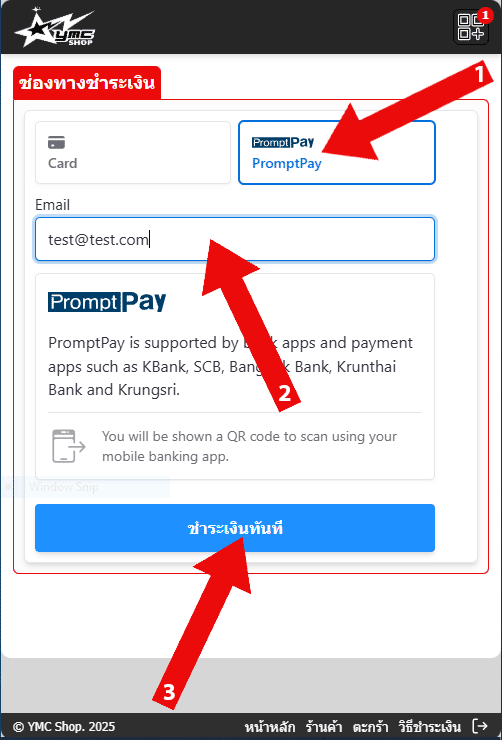
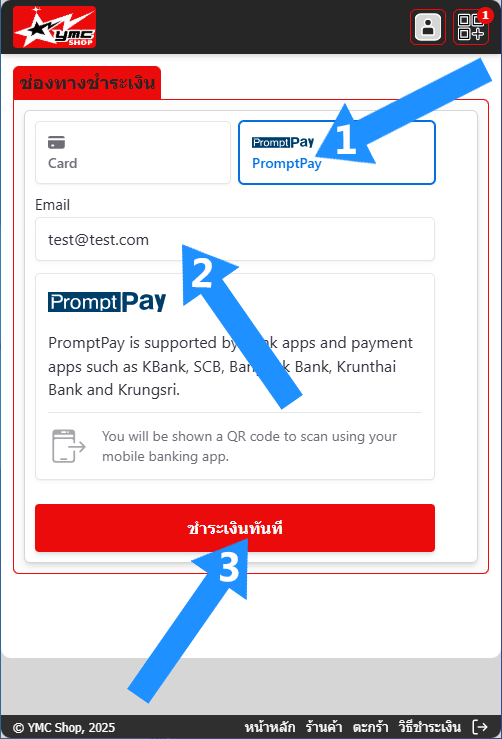
ymcshop-edit-CSS

diff --git a/src/stripe.css b/src/stripe.css
@@ -6,6 +6,8 @@
   border-radius: 7px;
   padding: 40px;
 }
+
+.Input,
 .stripe-input {
   border-radius: 6px;
   margin-bottom: 6px;
@@ -16,18 +18,22 @@
   background: var(--btbgact);
   box-sizing: border-box;
   border: solid 1px;
-  border-color: var(--bluelite);
+  border-color: var(--red);
   font-size: var(--fontsize14);
   font-weight: 600;
-  color: var(--bluedeep);
+  color: var(--redfull);
   background-color: var(--white);
+  padding-right: 82.2px;
 }
 
+.Input:hover,
 .stripe-input:hover {
-  border-color: var(--bluedeep);
-  background-color: var(--bluelite);
+  border-color: var(--redfull);
+  background-color: var(--red);
   color: var(--white);
 }
+
+.Input:focus,
 .stripe-input:focus {
   border: solid 1px;
   border-radius: 4px;
@@ -36,24 +42,27 @@
   border-color: transparent;
   opacity: 1;
   outline: none;
-  box-shadow: 0 0 0 2px var(--bluedeep);
-  color: var(--bluelite);
+  box-shadow: 0 0 0 2px var(--redfull);
+  color: var(--red);
   background-color: var(--btbgact);
 }
 
 .result-message {
   line-height: 22px;
   font-size: 16px;
-  color: var(--bluelite);
+  color: var(--red);
 }
+
 .result-message a {
-  color: var(--bluelite);
+  color: var(--red);
   font-weight: 600;
   text-decoration: none;
 }
+
 .hidden {
   display: none;
 }
+
 #card-error {
   color: rgb(105, 115, 134);
   font-size: 16px;
@@ -61,21 +70,24 @@
   margin-top: 12px;
   text-align: center;
 }
+
 #card-element {
   border-radius: 4px 4px 0 0;
   padding: 12px;
-  border: 1px solid var(--bluedeep);
+  border: 1px solid var(--redfull);
   max-height: 44px;
   width: 100%;
-  background: var(--bluelite);
+  background: var(--red);
   box-sizing: border-box;
 }
+
 #payment-request-button {
   margin-bottom: 32px;
 }
+
 /* Buttons and links */
 .stripe-button {
-  background: var(--bluelite);
+  background: var(--red);
   /* font-family: Arial, sans-serif; */
   color: var(--white);
   /* border-radius: 0 0 4px 4px; */
@@ -93,20 +105,23 @@
 
 .stripe-button:hover {
   background-color: var(--btbgact);
-  color: var(--bluedeep);
+  color: var(--redfull);
   transform: scale(1) translateY(1px);
+  /* border: 1px solid var(--redfull); */
 }
 
 .stripe-button:disabled {
   opacity: 0.5;
   cursor: default;
 }
+
 /* spinner/processing state, errors */
 .spinner,
 .spinner:before,
 .spinner:after {
   border-radius: 50%;
 }
+
 .spinner {
   color: var(--btbgact);
   font-size: 22px;
@@ -120,15 +135,17 @@
   -ms-transform: translateZ(0);
   transform: translateZ(0);
 }
+
 .spinner:before,
 .spinner:after {
   position: absolute;
   content: "";
 }
+
 .spinner:before {
   width: 10.4px;
   height: 20.4px;
-  background: var(--bluelite);
+  background: var(--red);
   border-radius: 20.4px 0 0 20.4px;
   top: -0.2px;
   left: -0.2px;
@@ -137,10 +154,11 @@
   -webkit-animation: loading 2s infinite ease 1.5s;
   animation: loading 2s infinite ease 1.5s;
 }
+
 .spinner:after {
   width: 10.4px;
   height: 10.2px;
-  background: var(--bluelite);
+  background: var(--red);
   border-radius: 0 10.2px 10.2px 0;
   top: -0.1px;
   left: 10.2px;
@@ -149,16 +167,19 @@
   -webkit-animation: loading 2s infinite ease;
   animation: loading 2s infinite ease;
 }
+
 @keyframes loading {
   0% {
     -webkit-transform: rotate(0deg);
     transform: rotate(0deg);
   }
+
   100% {
     -webkit-transform: rotate(360deg);
     transform: rotate(360deg);
   }
 }
+
 @media only screen and (max-width: 600px) {
   form {
     width: 80vw;
